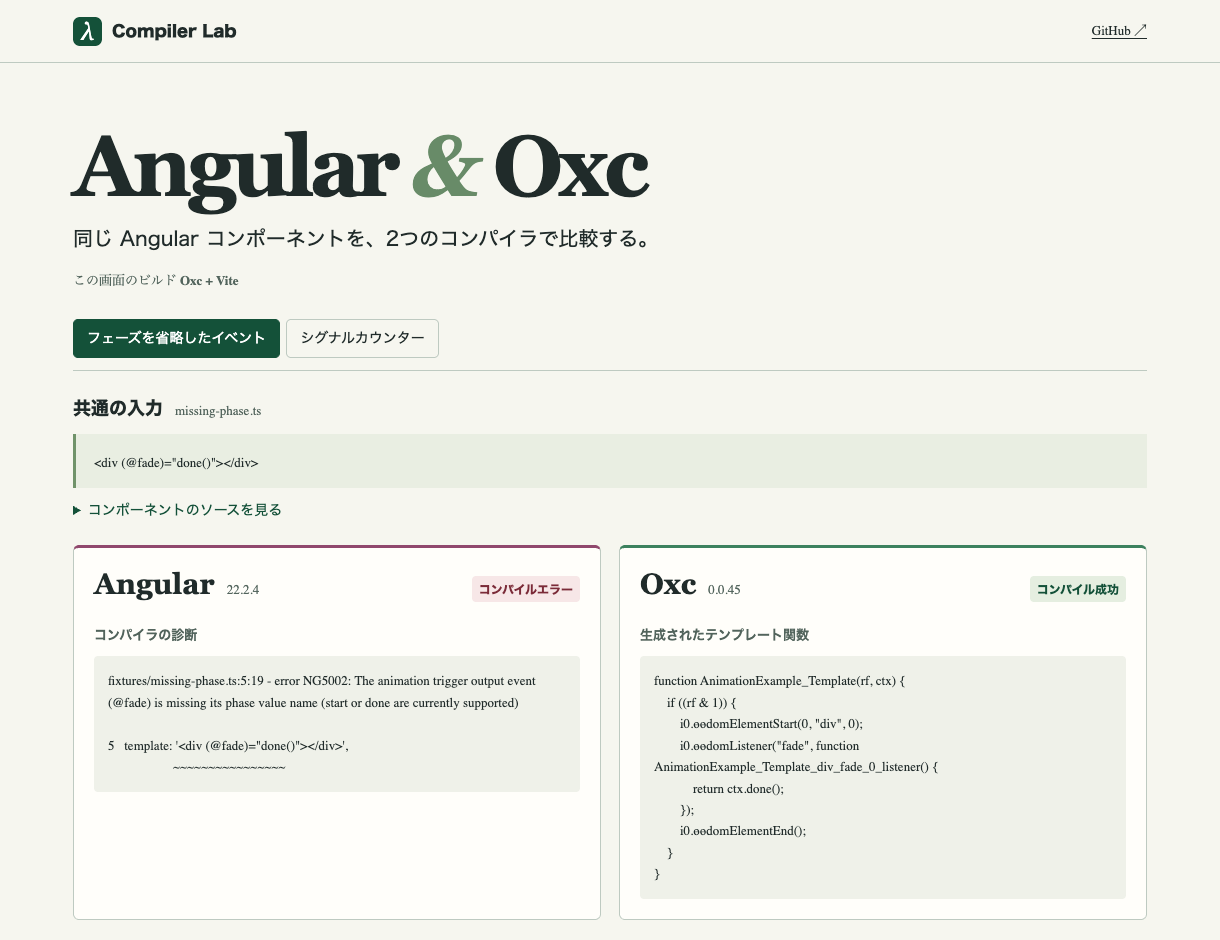
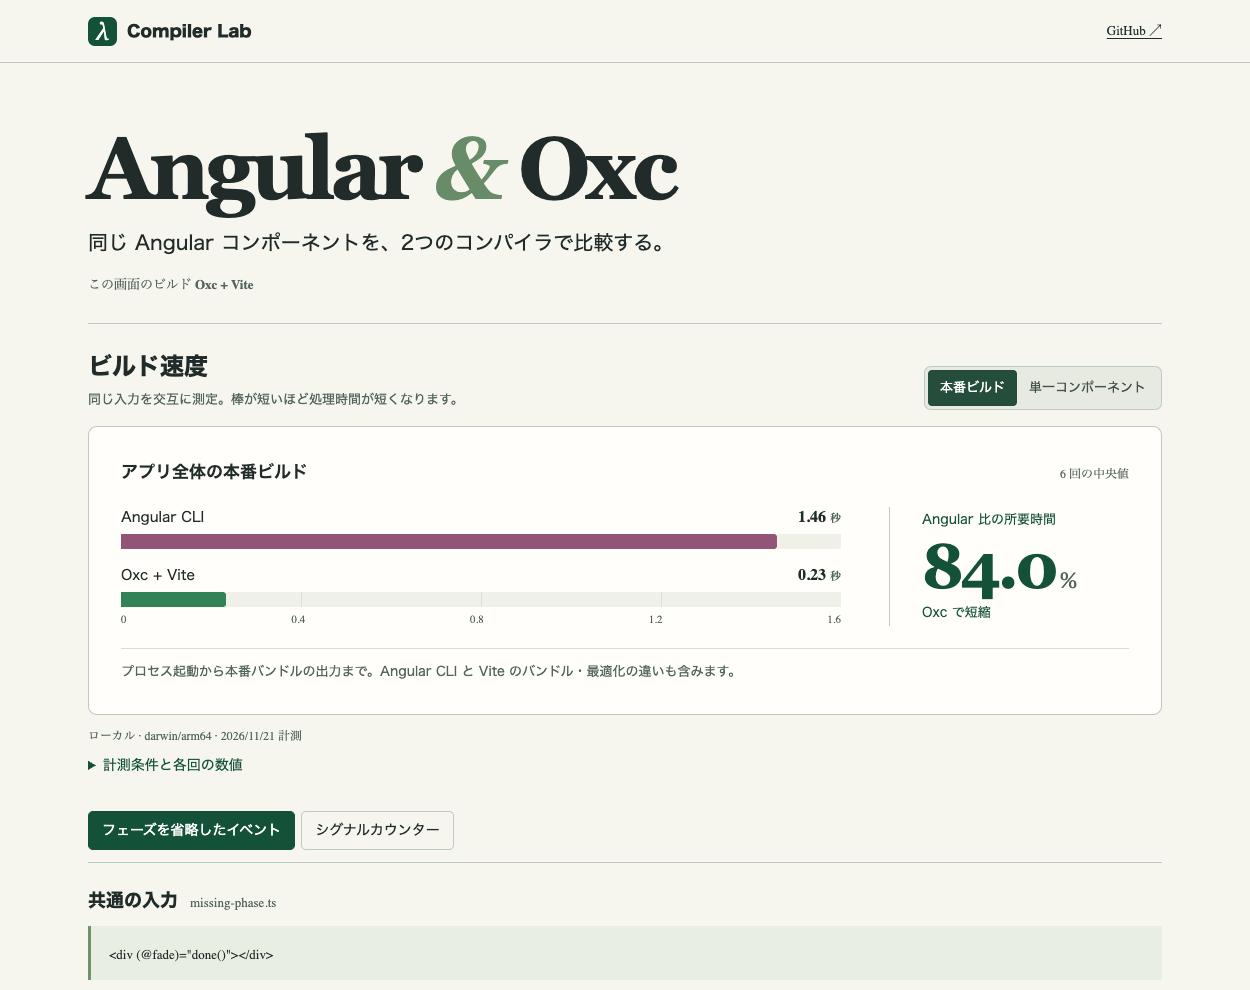
Compare measured Angular and Oxc build times on Pages

diff --git a/src/speed-chart.html b/src/speed-chart.html
@@ -1,0 +1,49 @@
+<section class="speed" aria-labelledby="speed-heading">
+  <div class="heading">
+    <div><h2 id="speed-heading">ビルド速度</h2><p>同じ入力を交互に測定。棒が短いほど処理時間が短くなります。</p></div>
+    <div role="group" aria-label="計測範囲" class="switcher">
+      @for (option of options; track option.id) {
+        <button type="button" (click)="metric.set(option.id)" [attr.aria-pressed]="metric() === option.id">{{ option.label }}</button>
+      }
+    </div>
+  </div>
+  @if (chart(); as c) {
+    <div class="plot-card">
+      <div class="plot-heading">
+        <h3>{{ metric() === 'build' ? 'アプリ全体の本番ビルド' : 'counter.ts のコンパイル' }}</h3>
+        <span>{{ c.samples.length }} 回の中央値</span>
+      </div>
+      <div class="body-grid">
+        <div class="plot">
+          @for (row of c.rows; track row.engine) {
+            <div class="series">
+              <div class="series-label"><span>{{ row.name }}</span><b>{{ row.value }} <small>{{ c.unit }}</small></b></div>
+              <div class="track" aria-hidden="true"><div class="bar" [class.oxc-bar]="row.engine === 'oxc'" [style.width.%]="row.width"></div></div>
+            </div>
+          }
+          <div class="axis" aria-hidden="true">@for (t of c.ticks; track $index) { <span>{{ t }}</span> }</div>
+        </div>
+        <div class="difference">
+          <span>Angular 比の所要時間</span>
+          <div><b>{{ c.percent }}</b><small>%</small></div>
+          <span>Oxc で{{ c.change }}</span>
+        </div>
+      </div>
+      <p class="scope">@if (metric() === 'build') {
+        プロセス起動から本番バンドルの出力まで。Angular CLI と Vite のバンドル・最適化の違いも含みます。
+      } @else {
+        読み込み済みの API で同じファイルを処理。ngc は TypeScript プログラムの作成・型検査を含み、Oxc は単一ファイルを変換します。
+      }</p>
+    </div>
+    @if (report(); as r) {
+      <div class="foot"><span>{{ r.environment.runner }} · {{ r.environment.platform }}/{{ r.environment.arch }} · {{ c.date }} 計測</span>
+        <details><summary>計測条件と各回の数値</summary>
+          <p>{{ r.environment.cpu }} · Node {{ r.environment.node }} · Angular {{ r.environment.angular }} · Oxc {{ r.environment.oxc }} · Vite {{ r.environment.vite }}</p>
+          <p>各方式を1回ずつ予熱後、先に測る方式を交替して6回ずつ直列実行。本番ビルドは毎回、新しい作業フォルダーとプロセスを使用します。依存のインストールと比較データの生成は計測外です。</p>
+          <table><caption>各回の所要時間（{{ c.unit }}）</caption><thead><tr><th scope="col">回</th><th scope="col">Angular</th><th scope="col">Oxc</th></tr></thead>
+            <tbody>@for (s of c.samples; track $index) { <tr><th scope="row">{{ $index + 1 }}</th><td>{{ s.angular }}</td><td>{{ s.oxc }}</td></tr> }</tbody></table>
+        </details>
+      </div>
+    }
+  } @else if (failed()) { <p>計測結果を読み込めませんでした。</p> } @else { <p>計測結果を読み込み中…</p> }
+</section>

diff --git a/src/speed-chart.css b/src/speed-chart.css
@@ -1,0 +1,34 @@
+:host { display:block; margin-bottom:34px; }
+.speed { border-top:1px solid var(--line); padding-top:24px; }
+.heading,.plot-heading,.series-label { display:flex; align-items:center; justify-content:space-between; gap:12px; }
+.heading { align-items:flex-end; margin-bottom:16px; flex-wrap:wrap; }
+.heading h2 { font-size:24px; color:var(--ink); }
+.heading p,.scope,.foot { font-size:13px; line-height:1.65; color:var(--muted); }
+.heading p { margin:5px 0 0; }
+.switcher { display:inline-flex; background:#e7eae1; border:1px solid var(--line); padding:3px; border-radius:7px; }
+.switcher button { background:transparent; border:0; border-radius:4px; padding:8px 12px; color:#425147; font-size:13px; }
+.switcher button[aria-pressed=true] { background:#254d3b; color:#fff; }
+.plot-card { border:1px solid var(--line); border-radius:9px; padding:clamp(18px,3vw,32px); background:#fffefa; }
+.plot-heading { align-items:baseline; flex-wrap:wrap; }
+.plot-heading h3 { margin:0; font-size:17px; color:var(--ink); }
+.plot-heading>span,.axis,.series-label b,.foot>span { font-family:ui-monospace,monospace; font-variant-numeric:tabular-nums; }
+.plot-heading>span { font-size:12px; color:var(--muted); }
+.body-grid { display:grid; grid-template-columns:minmax(0,3fr) minmax(160px,1fr); gap:clamp(16px,4vw,48px); margin:22px 0; }
+.series + .series { margin-top:16px; }
+.series-label { font-size:14px; margin-bottom:6px; }
+.series-label b { font-size:16px; } .series-label small { font-size:11px; font-weight:500; }
+.track { height:15px; background:repeating-linear-gradient(to right,#d9ded6 0 1px,transparent 1px 25%),#eff1e9; }
+.bar { height:100%; background:#935577; border-radius:0 3px 3px 0; }
+.oxc-bar { background:#328257; }
+.axis { display:flex; justify-content:space-between; font-size:11px; color:var(--muted); margin-top:6px; }
+.difference { display:flex; flex-direction:column; justify-content:center; padding-left:clamp(18px,3vw,32px); border-left:1px solid var(--line); color:var(--green); }
+.difference span { font-size:13px; }.difference b { font:550 clamp(38px,5vw,62px)/1.18 Georgia,serif; letter-spacing:-.05em; }
+.difference small { font:22px Georgia,serif; padding-left:4px; }
+.scope { border-top:1px solid #d8ddd4; margin:0; padding-top:12px; }
+.foot { margin-top:10px; } .foot>span { font-size:12px; }
+.foot details { margin-top:7px; }
+table { width:min(100%,420px); border-collapse:collapse; font-variant-numeric:tabular-nums; color:var(--ink); }
+caption { text-align:left; padding-bottom:7px; font-weight:600; }
+th,td { text-align:right; padding:4px 12px; border-bottom:1px solid var(--line); }
+th:first-child { text-align:left; }
+@media(max-width:640px) { .body-grid { grid-template-columns:1fr; } .difference { display:flex; flex-direction:row; align-items:baseline; justify-content:flex-start; gap:8px; border:0; padding:0; flex-wrap:wrap; } .difference b { font-size:32px; } .difference small { font-size:16px; } }

diff --git a/src/speed-chart.ts b/src/speed-chart.ts
@@ -1,0 +1,63 @@
+import { Component, computed, signal } from '@angular/core';
+
+type Measurement = 'build' | 'component';
+type Samples = { angular: number[]; oxc: number[] };
+interface Report {
+  measuredAt: string;
+  environment: { runner: string; platform: string; arch: string; cpu: string; node: string; angular: string; oxc: string; vite: string };
+  build: Samples;
+  component: Samples;
+}
+
+function median(samples: number[]) {
+  const sorted = [...samples].sort((a, b) => a - b);
+  const mid = Math.floor(sorted.length / 2);
+  return sorted.length % 2 ? sorted[mid] : (sorted[mid - 1] + sorted[mid]) / 2;
+}
+
+@Component({
+  selector: 'lab-speed-chart',
+  templateUrl: './speed-chart.html',
+  styleUrl: './speed-chart.css',
+})
+export class SpeedChart {
+  readonly report = signal<Report | null>(null);
+  readonly failed = signal(false);
+  readonly metric = signal<Measurement>('build');
+  readonly options = [{ id: 'build', label: '本番ビルド' }, { id: 'component', label: '単一コンポーネント' }] as const;
+  readonly chart = computed(() => {
+    const report = this.report();
+    if (!report) return null;
+    const isBuild = this.metric() === 'build';
+    const samples = report[this.metric()];
+    const unit = isBuild ? '秒' : 'ms';
+    const divisor = isBuild ? 1000 : 1;
+    const format = (ms: number) => (ms / divisor).toLocaleString('ja-JP', { maximumFractionDigits: 2 });
+    const rows = (['angular', 'oxc'] as const).map(engine => ({
+      engine, name: engine === 'angular' ? (isBuild ? 'Angular CLI' : 'Angular ngc') : (isBuild ? 'Oxc + Vite' : 'Oxc API'),
+      median: median(samples[engine]),
+    }));
+    const maximum = Math.max(...rows.map(row => row.median)) / divisor;
+    const step = 10 ** Math.floor(Math.log10(maximum / 4));
+    const tick = Math.ceil(maximum / (4 * step)) * step;
+    const delta = rows[0].median - rows[1].median;
+    return {
+      rows: rows.map(row => ({ ...row, width: 100 * row.median / (4 * tick * divisor), value: format(row.median) })),
+      ticks: Array.from({ length: 5 }, (_, i) => (i * tick).toLocaleString('ja-JP', { maximumSignificantDigits: 3 })),
+      unit, percent: Math.abs(delta / rows[0].median * 100).toFixed(1),
+      change: delta >= 0 ? '短縮' : '増加',
+      date: new Intl.DateTimeFormat('ja-JP', { dateStyle: 'medium', timeZone: 'Asia/Tokyo' }).format(new Date(report.measuredAt)),
+      samples: samples.angular.map((ms, i) => ({ angular: format(ms), oxc: format(samples.oxc[i]) })),
+    };
+  });
+
+  async ngOnInit() {
+    try {
+      const response = await fetch(new URL('benchmark.json', document.baseURI), { cache: 'no-cache' });
+      if (!response.ok) throw new Error('Benchmark unavailable');
+      this.report.set(await response.json() as Report);
+    } catch {
+      this.failed.set(true);
+    }
+  }
+}

diff --git a/src/app.html b/src/app.html
@@ -8,6 +8,7 @@
     <p>同じ Angular コンポーネントを、2つのコンパイラで比較する。</p>
     <small>この画面のビルド <b>{{ compiler }}</b></small>
   </div>
+  <lab-speed-chart id="benchmark"></lab-speed-chart>
   <div class="choices" role="group" aria-label="比較するサンプル">
     @for (example of cases; track example.file) {
       <button type="button" [attr.aria-pressed]="example.file === selected().file" (click)="selected.set(example)">{{ example.title }}</button>

diff --git a/src/app.ts b/src/app.ts
@@ -1,12 +1,13 @@
 import { Component, computed, signal, ViewEncapsulation } from '@angular/core';
 import { Counter } from '../fixtures/counter';
+import { SpeedChart } from './speed-chart';
 import comparisons from './generated/comparison.json';
 
 declare const APP_COMPILER: string;
 
 @Component({
   selector: 'app-root',
-  imports: [Counter],
+  imports: [Counter, SpeedChart],
   templateUrl: './app.html',
   styleUrl: './app.css',
   encapsulation: ViewEncapsulation.None,

diff --git a/README.md b/README.md
@@ -4,7 +4,7 @@
 
 公開デモを開く　[Oxc + Vite 版](https://nagahara-naoki.github.io/oxc-angular-starter/) · [Angular CLI 版](https://nagahara-naoki.github.io/oxc-angular-starter/angular/)
 
-![Angular と Oxc のコンパイル結果を横に並べた画面](docs/comparison.png)
+![Angular CLI と Oxc + Vite のビルド時間を比較するグラフ](docs/comparison.png)
 
 ## 試す
 
@@ -18,6 +18,19 @@ npm start
 ```
 
 **Oxc + Vite** で起動した画面は <http://localhost:5173>。もう一つのターミナルで `npm run dev:angular` を実行すると、**Angular CLI の AOT** で同じ画面を <http://localhost:4200> に起動します。どちらの画面にも両コンパイラの比較結果が表示されます。ページ上部の「この画面のビルド」が、そのページを生成した側です。
+
+## ビルド速度を比較する
+
+[公開グラフ](https://nagahara-naoki.github.io/oxc-angular-starter/#benchmark)で「本番ビルド」と「単一コンポーネント」を切り替えられます。棒はゼロを起点にした同一目盛りで、各方式6回の中央値を示します。時間差の割合は `(Angular の中央値 − Oxc の中央値) / Angular の中央値` から求めています。計測環境と各回の値はグラフ下で確認できます。
+
+| 範囲 | Angular | Oxc |
+| --- | --- | --- |
+| 本番ビルド | このアプリの `ng build` | 同じアプリの `vite build`。いずれも新しいプロセスの起動から出力完了まで |
+| 単一コンポーネント | `counter.ts` を新しい TypeScript プログラムでコンパイル。型検査・ファイル読み込みを含む | 同じソースを読み込み済みの Oxc API に渡して単一ファイルを変換 |
+
+`npm run benchmark` で再計測できます。各方式1回の予熱後、先に測る方式を交替させ、同じマシンで直列実行します。依存は共通でインストール済み。本番ビルドは空の出力・プロジェクトキャッシュで毎回開始し、OS のファイルキャッシュは保持します。ファイルの準備と比較データ生成は計測外です。
+
+ローカルでは同梱の [計測結果](public/benchmark.json) を表示します。GitHub Pages ではデプロイごとに Actions ランナー上で再計測し、その両ビルドで同じ結果を表示します。小規模なこのアプリを対象にした値で、規模や型検査、バンドラーの違いが結果に影響します。[計測スクリプト](scripts/benchmark.mjs)
 
 ## 二つの比較例
 
